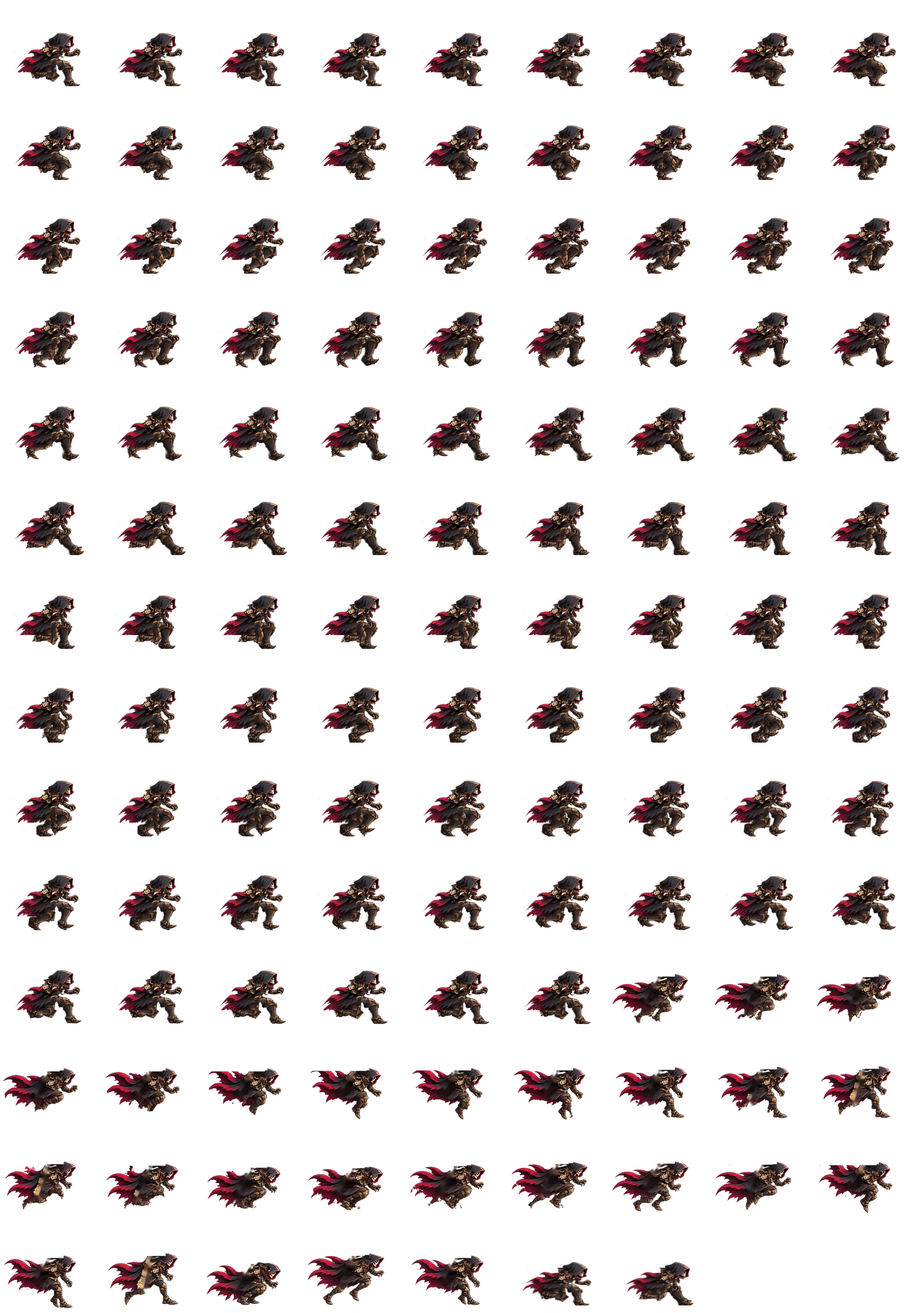
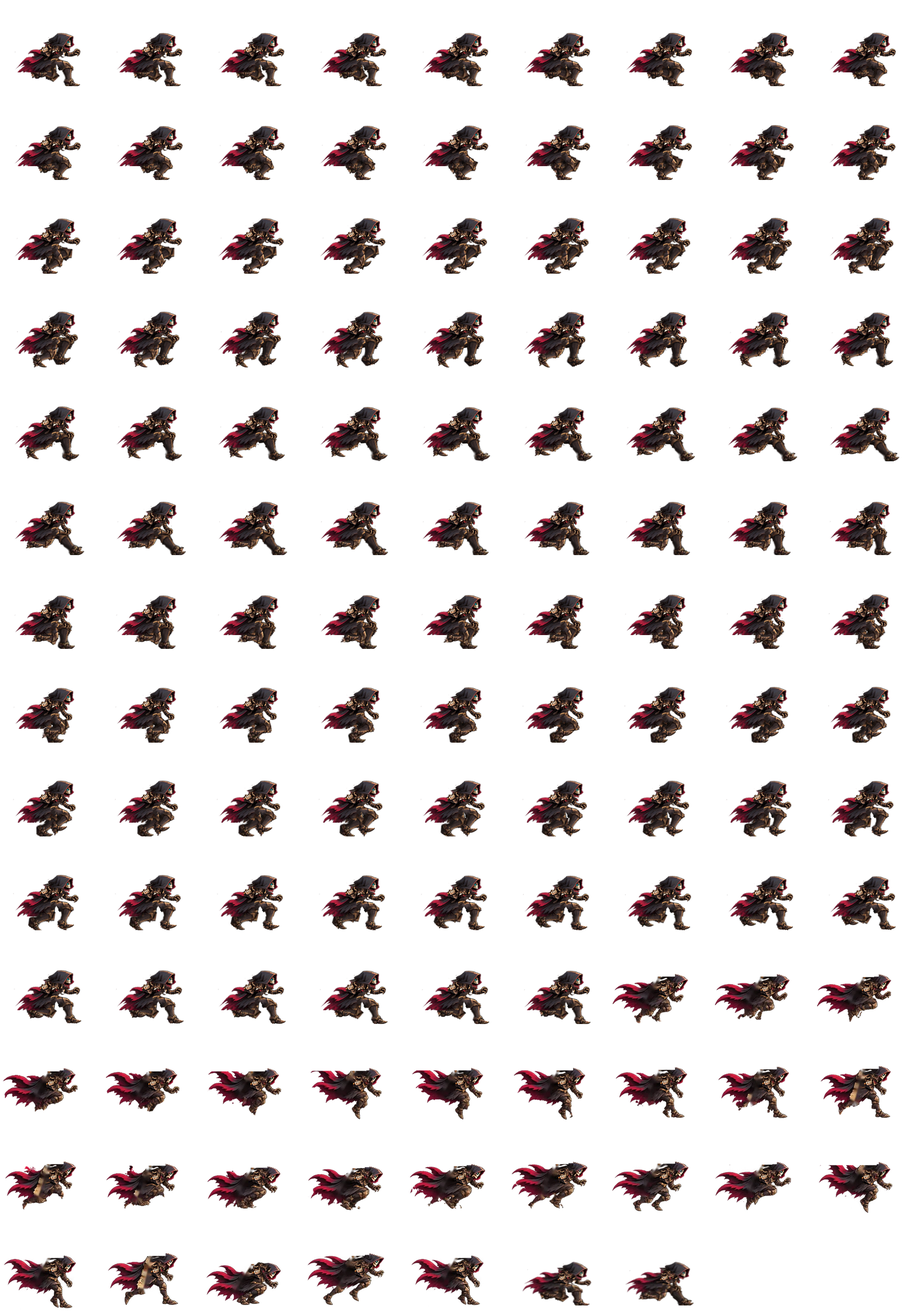
Register the Reaper’s running drag and airborne tuck for v0.19.15

diff --git a/assets/motion/v0200/animation-data.js b/assets/motion/v0200/animation-data.js
@@ -1,2 +1,2 @@
 /* Forward scythe visual poses. Combat authority stays in the original sweep. */
-window.GRIM_FORWARD_SCYTHE={"carry":{"key":"motion-reaper-forward-carry","url":"assets/motion/v0200/reaper-forward-carry.webp?v=9287e87c9eb7","width":200,"height":184,"columns":9,"frames":124,"anchor":[125.0,168.0]},"cut":{"key":"motion-reaper-forward-cut","url":"assets/motion/v0200/reaper-forward-cut.webp?v=1","width":200,"height":160,"columns":12,"frames":168,"anchor":[125.0,140.0]},"weapon":{"key":"motion-reaper-forward-scythe","url":"assets/motion/v0200/reaper-forward-scythe.webp?v=1","width":337,"height":361,"columns":1,"frames":1,"anchor":[177.0,297.0],"scale":0.2743125},"scale":0.8666666666666667,"ground":[[0,1,2,3,4,5,6,7,8,9,10,11],[15,16,17,18,19,20,21,22,23,24,25,26],[30,31,32,33,34,35,36,37,38,39,40,41],[45,46,47,48,49,50,51,52,53,54,55,56],[60],[62],[64],[66],[68],[70],[72],[74],[76],[78],[80],[82],[84],[86],[88],[90],[92],[94],[96],[98],[100],[102],[104],[106],[108,109,110,111,112,113,114,115,116,117,118,119],[123,124,125,126,127,128,129,130,131,132,133,134],[138,139,140,141,142,143,144,145,146,147,148,149],[153,154,155,156,157,158,159,160,161,162,163,164]],"air":[[12,13,14],[27,28,29],[42,43,44],[57,58,59],[61],[63],[65],[67],[69],[71],[73],[75],[77],[79],[81],[83],[85],[87],[89],[91],[93],[95],[97],[99],[101],[103],[105],[107],[120,121,122],[135,136,137],[150,151,152],[165,166,167]],"slideRise":[122,123],"grips":[[-17.471078,-54.327619,0.201909],[-16.88886,-54.943908,0.237626],[-16.367683,-57.197241,0.262609],[-16.047195,-58.834286,0.251876],[-16.013271,-58.217997,0.21616],[-16.275001,-55.964663,0.191176],[-16.762255,-54.327619,0.201909],[-17.344473,-54.943908,0.237626],[-17.865651,-57.197241,0.262609],[-18.186139,-58.834286,0.251876],[-18.220062,-58.217997,0.21616],[-17.958332,-55.964663,0.191176],[-18.0,-57.0,0.244346],[-22.0,-56.0,0.314159],[-21.0,-56.0,0.296706],[-16.742363,-55.218761,0.202942],[-16.20021,-55.79264,0.2362],[-15.714897,-57.890911,0.259465],[-15.416464,-59.415302,0.24947],[-15.384874,-58.841423,0.216211],[-15.628594,-56.743152,0.192947],[-16.082317,-55.218761,0.202942],[-16.62447,-55.79264,0.2362],[-17.109783,-57.890911,0.259465],[-17.408216,-59.415302,0.24947],[-17.439805,-58.841423,0.216211],[-17.196086,-56.743152,0.192947],[-17.234887,-57.707242,0.242458],[-20.959627,-56.776057,0.307467],[-20.028442,-56.776057,0.291215],[-13.84314,-58.435749,0.204966],[-13.402013,-58.902691,0.232027],[-13.007135,-60.609965,0.250956],[-12.764312,-61.850298,0.242824],[-12.738609,-61.383357,0.215763],[-12.936913,-59.676083,0.196834],[-13.306089,-58.435749,0.204966],[-13.747216,-58.902691,0.232027],[-14.142094,-60.609965,0.250956],[-14.384917,-61.850298,0.242824],[-14.41062,-61.383357,0.215763],[-14.212316,-59.676083,0.196834],[-14.243886,-60.460522,0.237119],[-17.274551,-59.702856,0.290014],[-16.516885,-59.702856,0.27679],[-7.706036,-64.835887,0.206612],[-7.39814,-65.1618,0.2255],[-7.122525,-66.353435,0.238712],[-6.95304,-67.219156,0.233036],[-6.9351,-66.893243,0.214148],[-7.073512,-65.701608,0.200936],[-7.331187,-64.835887,0.206612],[-7.639083,-65.1618,0.2255],[-7.914698,-66.353435,0.238712],[-8.084182,-67.219156,0.233036],[-8.102122,-66.893243,0.214148],[-7.963711,-65.701608,0.200936],[-7.985746,-66.249127,0.229054],[-10.101074,-65.720295,0.265974],[-9.572242,-65.720295,0.256744],[-0.792582,-71.617823,0.211199],[-0.948123,-72.403693,0.223678],[4.421519,-75.97616,0.226546],[4.36716,-76.250807,0.230908],[7.162168,-76.911226,0.269557],[7.15988,-76.922782,0.26974],[7.346584,-74.711321,0.342195],[7.346584,-74.711321,0.342195],[7.55999,-73.929064,0.422918],[7.55999,-73.929064,0.422918],[9.485805,-75.152836,0.475162],[9.485805,-75.152836,0.475162],[13.032236,-75.396861,0.518577],[13.032236,-75.396861,0.518577],[17.422026,-73.734522,0.559778],[17.422026,-73.734522,0.559778],[21.615047,-71.064963,0.603009],[21.615047,-71.064963,0.603009],[24.976975,-68.086548,0.650249],[24.976975,-68.086548,0.650249],[27.694246,-65.023743,0.699049],[27.694246,-65.023743,0.699049],[30.050782,-62.044721,0.746433],[30.050782,-62.044721,0.746433],[32.292331,-59.29596,0.790156],[32.292331,-59.29596,0.790156],[34.511951,-56.837139,0.830881],[34.511951,-56.837139,0.830881],[36.76453,-54.706239,0.870005],[36.76453,-54.706239,0.870005],[39.104227,-52.94073,0.908916],[39.104227,-52.94073,0.908916],[41.557,-51.558239,0.948838],[41.557,-51.558239,0.948838],[44.112174,-50.550617,0.990781],[44.112174,-50.550617,0.990781],[46.75639,-49.907454,1.035723],[46.75639,-49.907454,1.035723],[49.388339,-49.415429,1.079628],[49.388339,-49.415429,1.079628],[51.662194,-48.369683,1.105768],[51.662194,-48.369683,1.105768],[51.951361,-46.711076,1.08719],[51.946945,-46.733387,1.087544],[46.286951,-44.984991,0.981489],[46.228681,-45.2794,0.986164],[31.310313,-44.462875,0.78437],[31.154773,-45.248744,0.796849],[12.054396,-46.650025,0.555019],[12.355633,-46.96889,0.573499],[12.625289,-48.134756,0.586425],[12.791108,-48.981757,0.580872],[12.80866,-48.662891,0.562392],[12.673242,-47.497025,0.549466],[12.421138,-46.650025,0.555019],[12.119901,-46.96889,0.573499],[11.850246,-48.134756,0.586425],[11.684426,-48.981757,0.580872],[11.666874,-48.662891,0.562392],[11.802293,-47.497025,0.549466],[11.780734,-48.032704,0.576976],[9.711149,-47.515308,0.613097],[10.228545,-47.515308,0.604066],[-3.904588,-50.372188,0.365156],[-3.475215,-50.826688,0.391496],[-3.090857,-52.488474,0.409921],[-2.854504,-53.695759,0.402005],[-2.829486,-53.241259,0.375665],[-3.022507,-51.579474,0.35724],[-3.381846,-50.372188,0.365156],[-3.811219,-50.826688,0.391496],[-4.195577,-52.488474,0.409921],[-4.43193,-53.695759,0.402005],[-4.456948,-53.241259,0.375665],[-4.263927,-51.579474,0.35724],[-4.294657,-52.343012,0.396452],[-7.244572,-51.605534,0.447937],[-6.507093,-51.605534,0.435066],[-13.343043,-52.999371,0.251657],[-12.812261,-53.561214,0.284218],[-12.337127,-55.615477,0.306994],[-12.044952,-57.107897,0.297209],[-12.014026,-56.546054,0.264648],[-12.252633,-54.491791,0.241872],[-12.696841,-52.999371,0.251657],[-13.227623,-53.561214,0.284218],[-13.702757,-55.615477,0.306994],[-13.994932,-57.107897,0.297209],[-14.025858,-56.546054,0.264648],[-13.787251,-54.491791,0.241872],[-13.825237,-55.435661,0.290345],[-17.471858,-54.524006,0.35399],[-16.560203,-54.524006,0.338079],[-17.08131,-54.167649,0.206428],[-16.500686,-54.78225,0.242047],[-15.980936,-57.029413,0.266962],[-15.661326,-58.661974,0.256258],[-15.627495,-58.047373,0.22064],[-15.888508,-55.80021,0.195725],[-16.374428,-54.167649,0.206428],[-16.955052,-54.78225,0.242047],[-17.474802,-57.029413,0.266962],[-17.794412,-58.661974,0.256258],[-17.828243,-58.047373,0.22064],[-17.56723,-55.80021,0.195725],[-17.608783,-56.832712,0.248749],[-21.59783,-55.83545,0.318371],[-20.600568,-55.83545,0.300965]],"stepMs":8.333333333333334,"rear":{"hands":[[-30.33853,-58.97749],[-30.23839,-58.92113],[-30.13716,-58.90687],[-30.03528,-58.93502],[-29.93318,-59.00516],[-29.8313,-59.11621],[-29.73007,-59.26643],[-29.62993,-59.45341],[-29.53131,-59.67417],[-29.43462,-59.92516],[-29.34029,-60.20236],[-29.24872,-60.50131],[-29.16029,-60.81723],[-29.0754,-61.14505],[-28.99439,-61.47952],[-28.91762,-61.81532],[-28.84542,-62.14711],[-28.77809,-62.46964],[-28.71593,-62.77784],[-28.6592,-63.06689],[-28.60815,-63.33231],[-28.56298,-63.57005],[-28.5239,-63.77653],[-28.49108,-63.94872],[-28.46464,-64.08416],[-28.44472,-64.18105],[-28.43138,-64.23822],[-28.4247,-64.25522],[-28.42469,-64.23223],[-28.43136,-64.17014],[-28.44468,-64.0705],[-28.46459,-63.93549],[-28.49101,-63.76787],[-28.52382,-63.57095],[-28.56288,-63.34854],[-28.60804,-63.10484],[-28.65908,-62.84442],[-28.7158,-62.5721],[-28.77795,-62.29288],[-28.84526,-62.01187],[-28.91745,-61.73415],[-28.99421,-61.46476],[-29.0752,-61.20853],[-29.16009,-60.97006],[-29.24851,-60.7536],[-29.34008,-60.56302],[-29.4344,-60.40167],[-29.53108,-60.27241],[-29.6297,-60.17749],[-29.72984,-60.11856],[-29.83107,-60.09661],[-29.93295,-60.11196],[-30.03505,-60.16427],[-30.13693,-60.25253],[-30.23816,-60.37508],[-30.3383,-60.52966],[-30.43692,-60.7134],[-30.53361,-60.92292],[-30.62794,-61.15438],[-30.71951,-61.40352],[-30.80794,-61.66576],[-30.89283,-61.93626],[-30.97384,-62.21004],[-31.05061,-62.48201],[-31.12281,-62.74711],[-31.19014,-63.00039],[-31.2523,-63.23706],[-31.30903,-63.45261],[-31.36008,-63.64289],[-31.40525,-63.80416],[-31.44433,-63.93316],[-31.47715,-64.0272],[-31.50359,-64.08416],[-31.52351,-64.10256],[-31.53685,-64.08159],[-31.54353,-64.02111],[-31.54354,-63.92164],[-31.53687,-63.78441],[-31.52355,-63.61128],[-31.50364,-63.40474],[-31.47722,-63.16787],[-31.44441,-62.90427],[-31.40535,-62.61803],[-31.36019,-62.31363],[-31.30915,-61.99589],[-31.25243,-61.66989],[-31.19028,-61.34086],[-31.12297,-61.0141],[-31.05078,-60.69492],[-30.97402,-60.38851],[-30.89303,-60.09987],[-30.80814,-59.83374],[-30.71972,-59.59449],[-30.62815,-59.38607],[-30.53383,-59.21194],[-30.43715,-59.07498],[-19.0,-56.75],[-20.0,-56.5],[-21.0,-56.25],[-21.75,-56.0],[-21.5,-56.0],[-21.25,-56.0],[-20.0,-56.5],[-19.0,-57.0],[-18.0,-57.5],[-17.0,-57.5],[-17.0,-57.0],[-17.0,-56.5],[-17.25,-55.5],[-17.5,-55.0],[-17.75,-54.5],[-17.75,-54.75],[-17.5,-55.5],[-17.25,-56.25],[-18.0,-57.0],[-22.0,-56.0],[-21.0,-56.0],[-17.0,-58.0],[-17.0,-56.0],[-18.0,-54.0],[-17.0,-57.0],[-17.0,-58.0],[-18.88323,-44.11404],[-17.99664,-44.11637]],"outline":[[43.3414,-69.1268],[42.1413,-66.4608],[40.9411,-63.7948],[39.741,-61.1288],[38.5409,-58.4629],[37.3408,-55.7969],[36.1407,-53.1309],[34.9406,-50.4649],[33.7404,-47.799],[32.5403,-45.133],[31.3402,-42.467],[30.1401,-39.801],[28.94,-37.1351],[27.7399,-34.4691],[26.5397,-31.8031],[25.3396,-29.1371],[24.1395,-26.4712],[22.9394,-23.8052],[21.7393,-21.1392],[20.5391,-18.4732],[19.339,-15.8073],[18.1389,-13.1413],[16.9388,-10.4753],[15.7387,-7.8093],[14.5386,-5.1434],[13.3384,-2.4774],[12.1383,0.1886],[10.9382,2.8546],[9.7381,5.5205],[8.538,8.1865],[7.3379,10.8525],[6.1377,13.5185],[4.9376,16.1844],[4.6633,16.4588],[4.389,16.4588],[2.4688,15.6358],[0.6401,14.4471],[-1.1887,13.2584],[-3.0174,12.0698],[-4.6143,9.552],[-6.2112,7.0342],[-7.8081,4.5164],[-9.405,1.9986],[-11.0019,-0.5192],[-12.5988,-3.037],[-14.1957,-5.5548],[-15.7926,-8.0726],[-17.3895,-10.5904],[-18.9863,-13.1082],[-20.5832,-15.626],[-22.1801,-18.1438],[-23.777,-20.6616],[-25.3739,-23.1794],[-26.9708,-25.6972],[-28.5677,-28.215],[-30.1646,-30.7328],[-31.7615,-33.2506],[-33.3584,-35.7684],[-34.9553,-38.2862],[-36.5521,-40.804],[-38.149,-43.3218],[-39.7459,-45.8396],[-41.3428,-48.3574],[-42.9397,-50.8752],[-44.5366,-53.393],[-46.1335,-55.9108],[-47.7304,-58.4286],[-47.7304,-58.9772],[-46.4137,-61.3911],[-45.097,-63.8051],[-43.7803,-66.219],[-42.4636,-68.633],[-41.1469,-71.0469],[-38.9067,-72.2356],[-36.6664,-73.4243],[-34.4262,-74.613],[-32.186,-75.8017],[-29.9458,-76.9904],[-27.7056,-78.1791],[-24.8424,-78.2991],[-21.9793,-78.4191],[-19.1162,-78.5391],[-16.253,-78.6591],[-13.3899,-78.7791],[-10.5267,-78.8991],[-7.6636,-79.0191],[-4.8005,-79.1392],[-1.9373,-79.2592],[0.9258,-79.3792],[3.7889,-79.4992],[6.6521,-79.6192],[9.5152,-79.7392],[12.3784,-79.8592],[15.2415,-79.9792],[18.1046,-80.0992],[19.4762,-80.0992],[22.2193,-79.8249],[23.8652,-79.4135],[25.5111,-79.002],[28.2542,-78.1791],[29.0771,-77.9048],[31.5459,-76.8075],[33.4661,-75.8474],[35.3863,-74.8873],[37.0322,-73.7901],[38.6781,-72.6928],[40.5982,-71.3213],[41.6955,-70.4983],[43.0671,-69.4011]],"dragLean":-0.24434609527920614,"dragMark":[36.382083,-71.727411],"shaft":[[-47.45606,-57.87994],[-48.00469,-58.97719],[-41.6955,-71.04694],[-41.42119,-71.32125],[-27.97988,-78.17906],[-27.43125,-78.45338],[-27.15694,-78.45338],[-23.04225,-76.8075],[-22.76794,-76.53319],[-22.49362,-75.98456],[-6.03488,-41.42119],[-5.21194,-38.95238],[-2.74312,-30.44869],[-0.82294,-23.04225],[0.0,-19.7505],[6.03488,5.21194],[6.03488,12.89269],[4.93763,16.45875],[4.11469,16.45875],[2.1945,15.63581],[-2.74312,12.34406],[-3.29175,11.79544]]}};
+window.GRIM_FORWARD_SCYTHE={"carry":{"key":"motion-reaper-forward-carry","url":"assets/motion/v0200/reaper-forward-carry.webp?v=d2169f667502","width":200,"height":184,"columns":9,"frames":124,"anchor":[125.0,168.0]},"cut":{"key":"motion-reaper-forward-cut","url":"assets/motion/v0200/reaper-forward-cut.webp?v=1","width":200,"height":160,"columns":12,"frames":168,"anchor":[125.0,140.0]},"weapon":{"key":"motion-reaper-forward-scythe","url":"assets/motion/v0200/reaper-forward-scythe.webp?v=1","width":337,"height":361,"columns":1,"frames":1,"anchor":[177.0,297.0],"scale":0.2743125},"scale":0.8666666666666667,"ground":[[0,1,2,3,4,5,6,7,8,9,10,11],[15,16,17,18,19,20,21,22,23,24,25,26],[30,31,32,33,34,35,36,37,38,39,40,41],[45,46,47,48,49,50,51,52,53,54,55,56],[60],[62],[64],[66],[68],[70],[72],[74],[76],[78],[80],[82],[84],[86],[88],[90],[92],[94],[96],[98],[100],[102],[104],[106],[108,109,110,111,112,113,114,115,116,117,118,119],[123,124,125,126,127,128,129,130,131,132,133,134],[138,139,140,141,142,143,144,145,146,147,148,149],[153,154,155,156,157,158,159,160,161,162,163,164]],"air":[[12,13,14],[27,28,29],[42,43,44],[57,58,59],[61],[63],[65],[67],[69],[71],[73],[75],[77],[79],[81],[83],[85],[87],[89],[91],[93],[95],[97],[99],[101],[103],[105],[107],[120,121,122],[135,136,137],[150,151,152],[165,166,167]],"slideRise":[122,123],"grips":[[-17.471078,-54.327619,0.201909],[-16.88886,-54.943908,0.237626],[-16.367683,-57.197241,0.262609],[-16.047195,-58.834286,0.251876],[-16.013271,-58.217997,0.21616],[-16.275001,-55.964663,0.191176],[-16.762255,-54.327619,0.201909],[-17.344473,-54.943908,0.237626],[-17.865651,-57.197241,0.262609],[-18.186139,-58.834286,0.251876],[-18.220062,-58.217997,0.21616],[-17.958332,-55.964663,0.191176],[-18.0,-57.0,0.244346],[-22.0,-56.0,0.314159],[-21.0,-56.0,0.296706],[-16.742363,-55.218761,0.202942],[-16.20021,-55.79264,0.2362],[-15.714897,-57.890911,0.259465],[-15.416464,-59.415302,0.24947],[-15.384874,-58.841423,0.216211],[-15.628594,-56.743152,0.192947],[-16.082317,-55.218761,0.202942],[-16.62447,-55.79264,0.2362],[-17.109783,-57.890911,0.259465],[-17.408216,-59.415302,0.24947],[-17.439805,-58.841423,0.216211],[-17.196086,-56.743152,0.192947],[-17.234887,-57.707242,0.242458],[-20.959627,-56.776057,0.307467],[-20.028442,-56.776057,0.291215],[-13.84314,-58.435749,0.204966],[-13.402013,-58.902691,0.232027],[-13.007135,-60.609965,0.250956],[-12.764312,-61.850298,0.242824],[-12.738609,-61.383357,0.215763],[-12.936913,-59.676083,0.196834],[-13.306089,-58.435749,0.204966],[-13.747216,-58.902691,0.232027],[-14.142094,-60.609965,0.250956],[-14.384917,-61.850298,0.242824],[-14.41062,-61.383357,0.215763],[-14.212316,-59.676083,0.196834],[-14.243886,-60.460522,0.237119],[-17.274551,-59.702856,0.290014],[-16.516885,-59.702856,0.27679],[-7.706036,-64.835887,0.206612],[-7.39814,-65.1618,0.2255],[-7.122525,-66.353435,0.238712],[-6.95304,-67.219156,0.233036],[-6.9351,-66.893243,0.214148],[-7.073512,-65.701608,0.200936],[-7.331187,-64.835887,0.206612],[-7.639083,-65.1618,0.2255],[-7.914698,-66.353435,0.238712],[-8.084182,-67.219156,0.233036],[-8.102122,-66.893243,0.214148],[-7.963711,-65.701608,0.200936],[-7.985746,-66.249127,0.229054],[-10.101074,-65.720295,0.265974],[-9.572242,-65.720295,0.256744],[-0.792582,-71.617823,0.211199],[-0.948123,-72.403693,0.223678],[4.421519,-75.97616,0.226546],[4.36716,-76.250807,0.230908],[7.162168,-76.911226,0.269557],[7.15988,-76.922782,0.26974],[7.346584,-74.711321,0.342195],[7.346584,-74.711321,0.342195],[7.55999,-73.929064,0.422918],[7.55999,-73.929064,0.422918],[9.485805,-75.152836,0.475162],[9.485805,-75.152836,0.475162],[13.032236,-75.396861,0.518577],[13.032236,-75.396861,0.518577],[17.422026,-73.734522,0.559778],[17.422026,-73.734522,0.559778],[21.615047,-71.064963,0.603009],[21.615047,-71.064963,0.603009],[24.976975,-68.086548,0.650249],[24.976975,-68.086548,0.650249],[27.694246,-65.023743,0.699049],[27.694246,-65.023743,0.699049],[30.050782,-62.044721,0.746433],[30.050782,-62.044721,0.746433],[32.292331,-59.29596,0.790156],[32.292331,-59.29596,0.790156],[34.511951,-56.837139,0.830881],[34.511951,-56.837139,0.830881],[36.76453,-54.706239,0.870005],[36.76453,-54.706239,0.870005],[39.104227,-52.94073,0.908916],[39.104227,-52.94073,0.908916],[41.557,-51.558239,0.948838],[41.557,-51.558239,0.948838],[44.112174,-50.550617,0.990781],[44.112174,-50.550617,0.990781],[46.75639,-49.907454,1.035723],[46.75639,-49.907454,1.035723],[49.388339,-49.415429,1.079628],[49.388339,-49.415429,1.079628],[51.662194,-48.369683,1.105768],[51.662194,-48.369683,1.105768],[51.951361,-46.711076,1.08719],[51.946945,-46.733387,1.087544],[46.286951,-44.984991,0.981489],[46.228681,-45.2794,0.986164],[31.310313,-44.462875,0.78437],[31.154773,-45.248744,0.796849],[12.054396,-46.650025,0.555019],[12.355633,-46.96889,0.573499],[12.625289,-48.134756,0.586425],[12.791108,-48.981757,0.580872],[12.80866,-48.662891,0.562392],[12.673242,-47.497025,0.549466],[12.421138,-46.650025,0.555019],[12.119901,-46.96889,0.573499],[11.850246,-48.134756,0.586425],[11.684426,-48.981757,0.580872],[11.666874,-48.662891,0.562392],[11.802293,-47.497025,0.549466],[11.780734,-48.032704,0.576976],[9.711149,-47.515308,0.613097],[10.228545,-47.515308,0.604066],[-3.904588,-50.372188,0.365156],[-3.475215,-50.826688,0.391496],[-3.090857,-52.488474,0.409921],[-2.854504,-53.695759,0.402005],[-2.829486,-53.241259,0.375665],[-3.022507,-51.579474,0.35724],[-3.381846,-50.372188,0.365156],[-3.811219,-50.826688,0.391496],[-4.195577,-52.488474,0.409921],[-4.43193,-53.695759,0.402005],[-4.456948,-53.241259,0.375665],[-4.263927,-51.579474,0.35724],[-4.294657,-52.343012,0.396452],[-7.244572,-51.605534,0.447937],[-6.507093,-51.605534,0.435066],[-13.343043,-52.999371,0.251657],[-12.812261,-53.561214,0.284218],[-12.337127,-55.615477,0.306994],[-12.044952,-57.107897,0.297209],[-12.014026,-56.546054,0.264648],[-12.252633,-54.491791,0.241872],[-12.696841,-52.999371,0.251657],[-13.227623,-53.561214,0.284218],[-13.702757,-55.615477,0.306994],[-13.994932,-57.107897,0.297209],[-14.025858,-56.546054,0.264648],[-13.787251,-54.491791,0.241872],[-13.825237,-55.435661,0.290345],[-17.471858,-54.524006,0.35399],[-16.560203,-54.524006,0.338079],[-17.08131,-54.167649,0.206428],[-16.500686,-54.78225,0.242047],[-15.980936,-57.029413,0.266962],[-15.661326,-58.661974,0.256258],[-15.627495,-58.047373,0.22064],[-15.888508,-55.80021,0.195725],[-16.374428,-54.167649,0.206428],[-16.955052,-54.78225,0.242047],[-17.474802,-57.029413,0.266962],[-17.794412,-58.661974,0.256258],[-17.828243,-58.047373,0.22064],[-17.56723,-55.80021,0.195725],[-17.608783,-56.832712,0.248749],[-21.59783,-55.83545,0.318371],[-20.600568,-55.83545,0.300965]],"stepMs":8.333333333333334,"rear":{"hands":[[-31.92853,-58.97749],[-31.84932,-58.92113],[-31.76893,-58.90687],[-31.68771,-58.93502],[-31.606,-59.00516],[-31.52416,-59.11621],[-31.44253,-59.26643],[-31.36146,-59.45341],[-31.28131,-59.67417],[-31.20241,-59.92516],[-31.1251,-60.20236],[-31.04971,-60.50131],[-30.97657,-60.81723],[-30.90598,-61.14505],[-30.83826,-61.47952],[-30.77369,-61.81532],[-30.71255,-62.14711],[-30.65509,-62.46964],[-30.60157,-62.77784],[-30.55222,-63.06689],[-30.50724,-63.33231],[-30.46683,-63.57005],[-30.43116,-63.77653],[-30.40039,-63.94872],[-30.37464,-64.08416],[-30.35403,-64.18105],[-30.33864,-64.23822],[-30.32855,-64.25522],[-30.32379,-64.23223],[-30.32438,-64.17014],[-30.33032,-64.0705],[-30.34159,-63.93549],[-30.35814,-63.76787],[-30.37989,-63.57095],[-30.40676,-63.34854],[-30.43862,-63.10484],[-30.47535,-62.84442],[-30.51679,-62.5721],[-30.56275,-62.29288],[-30.61304,-62.01187],[-30.66745,-61.73415],[-30.72574,-61.46476],[-30.78766,-61.20853],[-30.85295,-60.97006],[-30.92133,-60.7536],[-30.99251,-60.56302],[-31.06617,-60.40167],[-31.14201,-60.27241],[-31.2197,-60.17749],[-31.29891,-60.11856],[-31.3793,-60.09661],[-31.46052,-60.11196],[-31.54223,-60.16427],[-31.62407,-60.25253],[-31.7057,-60.37508],[-31.78677,-60.52966],[-31.86692,-60.7134],[-31.94582,-60.92292],[-32.02313,-61.15438],[-32.09852,-61.40352],[-32.17166,-61.66576],[-32.24225,-61.93626],[-32.30997,-62.21004],[-32.37454,-62.48201],[-32.43568,-62.74711],[-32.49314,-63.00039],[-32.54666,-63.23706],[-32.59601,-63.45261],[-32.64099,-63.64289],[-32.6814,-63.80416],[-32.71707,-63.93316],[-32.74784,-64.0272],[-32.77359,-64.08416],[-32.7942,-64.10256],[-32.80959,-64.08159],[-32.81968,-64.02111],[-32.82444,-63.92164],[-32.82385,-63.78441],[-32.81791,-63.61128],[-32.80664,-63.40474],[-32.79009,-63.16787],[-32.76834,-62.90427],[-32.74147,-62.61803],[-32.70961,-62.31363],[-32.67288,-61.99589],[-32.63144,-61.66989],[-32.58548,-61.34086],[-32.53519,-61.0141],[-32.48078,-60.69492],[-32.42249,-60.38851],[-32.36057,-60.09987],[-32.29528,-59.83374],[-32.2269,-59.59449],[-32.15572,-59.38607],[-32.08206,-59.21194],[-32.00622,-59.07498],[-19.0,-56.75],[-20.0,-56.5],[-21.0,-56.25],[-21.75,-56.0],[-21.5,-56.0],[-21.25,-56.0],[-20.0,-56.5],[-19.0,-57.0],[-18.0,-57.5],[-17.0,-57.5],[-17.0,-57.0],[-17.0,-56.5],[-17.25,-55.5],[-17.5,-55.0],[-17.75,-54.5],[-17.75,-54.75],[-17.5,-55.5],[-17.25,-56.25],[-18.0,-57.0],[-22.0,-56.0],[-21.0,-56.0],[-17.0,-58.0],[-17.0,-56.0],[-18.0,-54.0],[-17.0,-57.0],[-17.0,-58.0],[-18.88323,-44.11404],[-17.99664,-44.11637]],"outline":[[43.3414,-69.1268],[42.1413,-66.4608],[40.9411,-63.7948],[39.741,-61.1288],[38.5409,-58.4629],[37.3408,-55.7969],[36.1407,-53.1309],[34.9406,-50.4649],[33.7404,-47.799],[32.5403,-45.133],[31.3402,-42.467],[30.1401,-39.801],[28.94,-37.1351],[27.7399,-34.4691],[26.5397,-31.8031],[25.3396,-29.1371],[24.1395,-26.4712],[22.9394,-23.8052],[21.7393,-21.1392],[20.5391,-18.4732],[19.339,-15.8073],[18.1389,-13.1413],[16.9388,-10.4753],[15.7387,-7.8093],[14.5386,-5.1434],[13.3384,-2.4774],[12.1383,0.1886],[10.9382,2.8546],[9.7381,5.5205],[8.538,8.1865],[7.3379,10.8525],[6.1377,13.5185],[4.9376,16.1844],[4.6633,16.4588],[4.389,16.4588],[2.4688,15.6358],[0.6401,14.4471],[-1.1887,13.2584],[-3.0174,12.0698],[-4.6143,9.552],[-6.2112,7.0342],[-7.8081,4.5164],[-9.405,1.9986],[-11.0019,-0.5192],[-12.5988,-3.037],[-14.1957,-5.5548],[-15.7926,-8.0726],[-17.3895,-10.5904],[-18.9863,-13.1082],[-20.5832,-15.626],[-22.1801,-18.1438],[-23.777,-20.6616],[-25.3739,-23.1794],[-26.9708,-25.6972],[-28.5677,-28.215],[-30.1646,-30.7328],[-31.7615,-33.2506],[-33.3584,-35.7684],[-34.9553,-38.2862],[-36.5521,-40.804],[-38.149,-43.3218],[-39.7459,-45.8396],[-41.3428,-48.3574],[-42.9397,-50.8752],[-44.5366,-53.393],[-46.1335,-55.9108],[-47.7304,-58.4286],[-47.7304,-58.9772],[-46.4137,-61.3911],[-45.097,-63.8051],[-43.7803,-66.219],[-42.4636,-68.633],[-41.1469,-71.0469],[-38.9067,-72.2356],[-36.6664,-73.4243],[-34.4262,-74.613],[-32.186,-75.8017],[-29.9458,-76.9904],[-27.7056,-78.1791],[-24.8424,-78.2991],[-21.9793,-78.4191],[-19.1162,-78.5391],[-16.253,-78.6591],[-13.3899,-78.7791],[-10.5267,-78.8991],[-7.6636,-79.0191],[-4.8005,-79.1392],[-1.9373,-79.2592],[0.9258,-79.3792],[3.7889,-79.4992],[6.6521,-79.6192],[9.5152,-79.7392],[12.3784,-79.8592],[15.2415,-79.9792],[18.1046,-80.0992],[19.4762,-80.0992],[22.2193,-79.8249],[23.8652,-79.4135],[25.5111,-79.002],[28.2542,-78.1791],[29.0771,-77.9048],[31.5459,-76.8075],[33.4661,-75.8474],[35.3863,-74.8873],[37.0322,-73.7901],[38.6781,-72.6928],[40.5982,-71.3213],[41.6955,-70.4983],[43.0671,-69.4011]],"dragLean":-0.24434609527920614,"dragMark":[36.382083,-71.727411],"shaft":[[-47.45606,-57.87994],[-48.00469,-58.97719],[-41.6955,-71.04694],[-41.42119,-71.32125],[-27.97988,-78.17906],[-27.43125,-78.45338],[-27.15694,-78.45338],[-23.04225,-76.8075],[-22.76794,-76.53319],[-22.49362,-75.98456],[-6.03488,-41.42119],[-5.21194,-38.95238],[-2.74312,-30.44869],[-0.82294,-23.04225],[0.0,-19.7505],[6.03488,5.21194],[6.03488,12.89269],[4.93763,16.45875],[4.11469,16.45875],[2.1945,15.63581],[-2.74312,12.34406],[-3.29175,11.79544]]}};

diff --git a/index.html b/index.html
@@ -5,7 +5,7 @@
   <meta name="viewport" content="width=device-width, initial-scale=1, minimum-scale=1, maximum-scale=1, viewport-fit=cover, user-scalable=no">
   <meta name="theme-color" content="#0a1022">
   <meta name="apple-mobile-web-app-capable" content="yes">
-  <title>GRIM RUN — v0.19.14</title>
+  <title>GRIM RUN — v0.19.15</title>
   <link rel="preload" href="assets/ui/v0160/fonts/cinzel.ttf" as="font" type="font/ttf" crossorigin>
   <style>
 :root { color-scheme: dark; --cyan:#8cebe7; --dark:#0a1020; --ink:#0e1428; --white:#ecf5fa; }
@@ -284,7 +284,7 @@ button {cursor:pointer;}
   <div id="frontispiece" class="frontispiece" aria-hidden="true"><canvas id="canopy-art"></canvas><canvas id="title-art"></canvas><div class="title-mist"></div></div>
   <div id="home-screen" class="home-screen">
     <div class="home-copy"><div class="eyebrow">THE SOULS HAVE ESCAPED</div><div class="game-wordmark" aria-label="Grim Run"><span>GRIM</span><em>RUN</em></div><div class="home-rule" aria-hidden="true">✦</div><p class="home-tagline">Through shadow. Beyond death.</p><button id="home-enter-btn" class="veil-enter">TAP TO CROSS THE VEIL<span>ENTER THE UNDERWORLD</span></button></div>
-    <div class="home-edition">GRIM RUN · v0.19.14</div>
+    <div class="home-edition">GRIM RUN · v0.19.15</div>
   </div>
   <div id="game" aria-label="Grim Run playable game"></div>
   <div id="critical-health-halo" class="hidden" aria-hidden="true"></div>
@@ -325,7 +325,7 @@ button {cursor:pointer;}
       <p id="portal-art-load-error" role="alert" class="hidden">Portal and mist artwork failed to load. Refresh to retry.</p>
       <button id="start-btn" class="primary">START RUN <span>▶</span></button>
       <button id="reliquary-btn" class="secondary">RELIQUARY ✦</button>
-      <div class="mini">v0.19.14</div>
+      <div class="mini">v0.19.15</div>
       <div class="mini">SOULS BANKED: <span id="banked-souls">0</span></div>
       <div class="instructions">LEFT · Jump &amp; Slide &nbsp; / &nbsp; RIGHT · Cut &amp; Shoot<br>Hold Jump to rise higher. Jump within 0.5s of releasing Slide to tuck.</div>
     </div>
@@ -470,7 +470,7 @@ button {cursor:pointer;}
   </div>
   <script>
 window.GRIM_CONFIG = Object.freeze({
-  version: '0.19.14',
+  version: '0.19.15',
   groundRatio: 0.79,
   reaperXRatio: 0.32,
   initialSpeed: 300,
@@ -1982,10 +1982,10 @@ window.GRIM_CONFIG = Object.freeze({
   <script src="assets/visuals/biome-midground.js?v=downhill1"></script>
   <script src="assets/motion/v0180/animation-data.js?v=0.19.10-cut2"></script>
   <script src="assets/motion/v0194/animation-data.js?v=3"></script>
-  <script src="assets/motion/v0200/animation-data.js?v=ground-drag1"></script>
+  <script src="assets/motion/v0200/animation-data.js?v=run-drag2"></script>
   <script src="assets/motion/v0200/rising-cut-data.js?v=continuous1"></script>
   <script src="assets/visuals/rising-cut.js?v=ground-drag1"></script>
-  <script src="assets/visuals/motion-animations.js?v=character-motion1"></script>
+  <script src="assets/visuals/motion-animations.js?v=tuck-scale1"></script>
   <script src="assets/visuals/actor-transition-textures.js?v=0.19.12"></script>
   <script src="assets/visuals/slide-animations.js?v=rear-carry1"></script>
   <script src="assets/combat/v0170/animation-data.js?v=0.19.3"></script>
@@ -2002,7 +2002,7 @@ window.GRIM_CONFIG = Object.freeze({
   <script src="assets/encounters/v0190/animation-data.js?v=0.19.3"></script>
   <script src="assets/cutscenes/v0197/animation-data.js?v=character-motion1"></script>
   <script src="assets/visuals/cutscene-motion.js?v=character-motion1"></script>
-  <script src="assets/visuals/power-animations.js?v=ae-scythe1"></script>
+  <script src="assets/visuals/power-animations.js?v=tuck-scale1"></script>
   <script src="assets/visuals/bone-bridges.js?v=1"></script>
   <script src="assets/visuals/revision-art.js?v=0.15.1"></script>
   <script src="assets/visuals/vendor-art-data.js?v=0.15.2"></script>

diff --git a/assets/visuals/motion-animations.js b/assets/visuals/motion-animations.js
@@ -160,6 +160,18 @@
     return {frame:left*(AIR_STEPS-1)+step-1,tween:true};
   }
   function airBand(t){return t<8?0:t<14?1:2;}
+  // The source tuck painting has a smaller head and hands than the slide.
+  // Each bridge inherits the tuck share used to paint that particular cel.
+  function registeredScale(frame){
+    let tuckShare=0;
+    if(frame>=TUCK_START){
+      if(frame<TUCK_EXIT_START)tuckShare=1;
+      else if(frame<TUCK_ENTRY_START)tuckShare=[.75,.5,.25][(frame-TUCK_EXIT_START)%3];
+      else if(frame<TUCK_TOUCHDOWN)tuckShare=[.58,.79][(frame-TUCK_ENTRY_START)%2];
+      else tuckShare=[.61,.26,.39][frame-TUCK_TOUCHDOWN];
+    }
+    return AIR_ART.scale*(1+.24*tuckShare);
+  }
   function tuckPose(s,t,tucked,release){
     const p=s.player;
     if(tucked){
@@ -571,7 +583,7 @@
         this.state={name,frame:t,atlasFrame,phase:loop?t/COUNT:null,texture:key};
         return;
       }
-      const renderScale=handoff?CUT_HANDOFF.scale:solidRun?RUN.scale:registeredFrame!==null?AIR_ART.scale:scale;
+      const renderScale=handoff?CUT_HANDOFF.scale:solidRun?RUN.scale:registeredFrame!==null?registeredScale(registeredFrame):scale;
       // One opaque registered painting at a time, including the derived
       // transitions. Keep the same apparent size and feet anchor.
       this.body[0].setTexture(texture,atlasFrame)

diff --git a/tests/browser-obstacle-smoke.js b/tests/browser-obstacle-smoke.js
@@ -67,7 +67,7 @@ const server=http.createServer((req,res)=>{
         baselineErrors};
     });
     assert.equal(loaded.count,96,'catalog is loaded in the game');
-    assert.equal(loaded.badge,'v0.19.14','visible version badge matches the current art release');
+    assert.equal(loaded.badge,'v0.19.15','visible version badge matches the current art release');
     assert.deepEqual(loaded.missing,[],'all 96 obstacle textures load in actual Phaser');
     assert.deepEqual(loaded.wrongSize,[],'all textures retain their intended 3x source size');
     assert.equal(loaded.images,152,'all 24 upper paintings and 32 unique supports load');

diff --git a/assets/visuals/power-animations.js b/assets/visuals/power-animations.js
@@ -184,7 +184,7 @@
       this.action?.setVisible(false);
       if(frame!==null&&this.action&&s.visuals?.reaperReady){
         this.hideBase();
-        this.action.setFrame(frame).setPosition(p.x,s.feetY).setVisible(true)
+        this.action.setFrame(frame).setScale(frame<4?.375*1.24:.375).setPosition(p.x,s.feetY).setVisible(true)
           .setAlpha(p.invulMs>0&&Math.floor(s.frame/5)%2===0?.58:1)
           .setTint(p.slowMs>0?0xb9ecff:0xffffff);
         // Keep the attack trail even when the normal procedural actor is suppressed.

diff --git a/scripts/prepare-drag-carry.py b/scripts/prepare-drag-carry.py
@@ -63,7 +63,7 @@ for i in range(96):
     waist = np.array(pose['waist'])
     shoulder = waist + rotate(lean) @ (pose['shoulder'] - waist)
     phase = math.tau*i/96
-    palm = shoulder + [-26.35+.45*math.sin(phase), -1.9+.6*math.cos(phase)]
+    palm = shoulder + [-27.94+.13*math.sin(phase), -1.9+.6*math.cos(phase)]
     data['rear']['hands'][i] = palm.round(5).tolist()
     rest = cell(i)
     pivot = anchor + waist/scale
